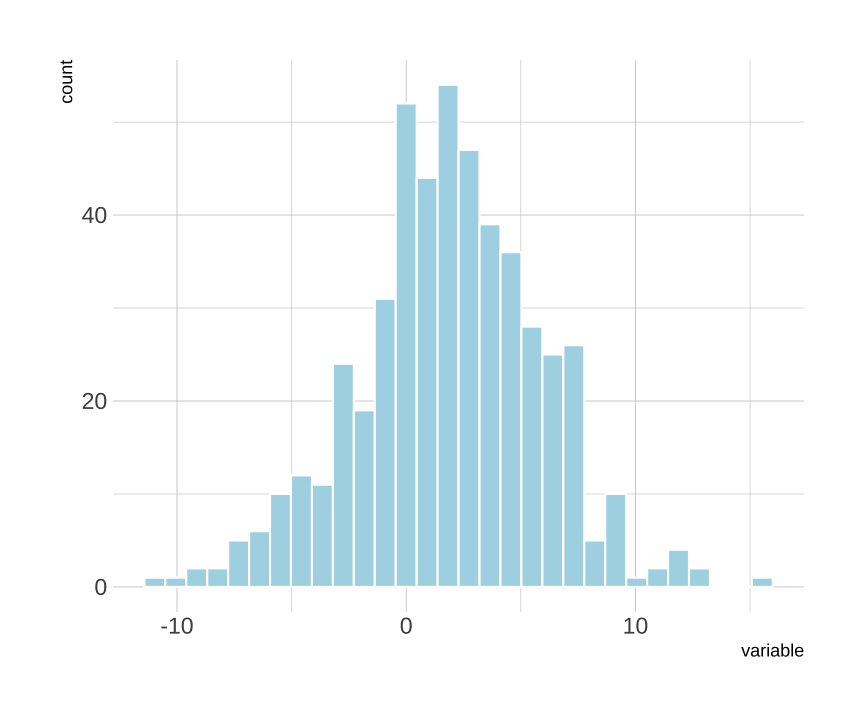
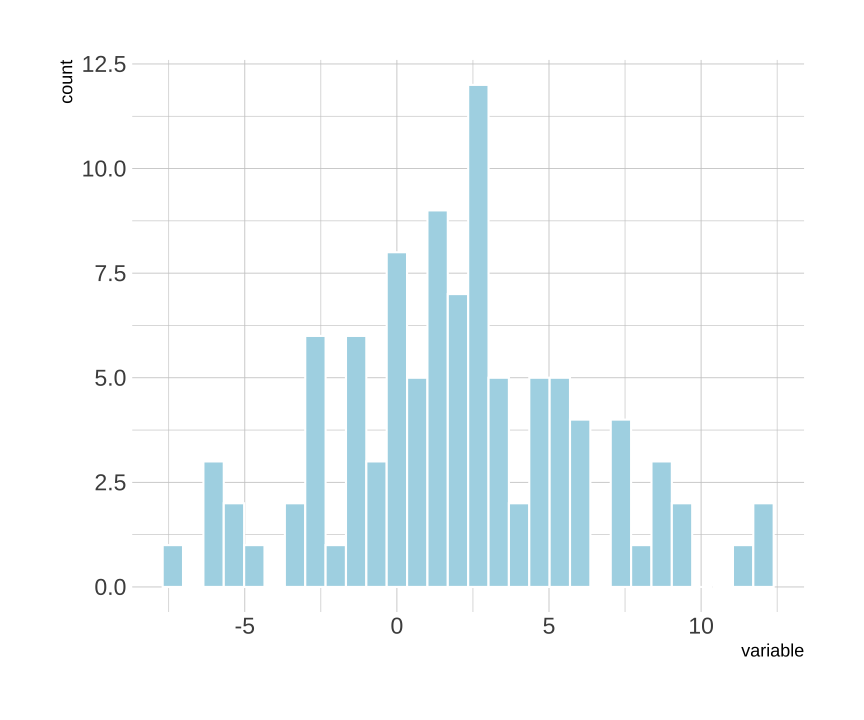
Update slides 1.

diff --git a/slides/01_introduction.html b/slides/01_introduction.html
@@ -31,6 +31,17 @@ class: inverse, center, middle
 
 ---
 
+&lt;style type="text/css"&gt;
+.pull-left2 {
+  float: left;
+  width: 30%;
+}
+.pull-right2 {
+  float: right;
+  width: 60%;
+}
+&lt;/style&gt;
+
 # Harnessing surprising sources of information
 
 .pull-left[
@@ -66,15 +77,15 @@ _Blumenstock, Cadamura, &amp; On, 2015_
 
 # Better prediction
 
-.pull-left[
+.pull-left2[
 ![](https://www.pluggedin.com/wp-content/uploads/2019/12/minority-report-1024x677.jpg)
 ]
 
-.pull-right[
+.pull-right2[
 
-- Already years ago, police departments have started to a system called CRUSH (Criminal Reduction Utilizing Statistical History) 
-- It evaluates patterns of past and present crime incidents and combines it with a range of data including crime reports, offender behavior profiles, weather forecasts...
-- This combination of data is then used to predict potential hot spots and flashpoints and allocate resources to areas where particular crimes are most likely to occur.
+- Already years ago, police departments have started to use a system called CRUSH (Criminal Reduction Utilizing Statistical History) 
+- It evaluates patterns of past crime incidents and combines it with a range of data including crime reports, offender behavior profiles, or weather forecasts
+- This combination of data is then used to predict potential hot spots and allocate resources to areas where particular crimes are most likely to occur.
 
 
 ]
@@ -84,10 +95,15 @@ _Blumenstock, Cadamura, &amp; On, 2015_
 # Why is this important now?
 
 - In the past, collecting data was expensive (surveys, observations...)
+
 - In the digital age, the behaviors of billions of people are recorded, stored, and therefore analyzable
-- For example, every time you click on a website, make a call on your mobile phone, or pay for something with your credit card, a digital record of your behavior is created and stored 
+
+- For example, every time you click on a website, make a call on your mobile phone, or pay for something with your credit card, a digital record of your behavior is created and stored
+
 - Because (meta-)data are a byproduct of people’s everyday actions, they are often called **digital traces**. 
+
 - Governments also have incredibly rich data about both people and businesses
+
 - Large-scale records of persons or business are often called **big data**.
 
 ---
@@ -96,27 +112,27 @@ _Blumenstock, Cadamura, &amp; On, 2015_
 
 
 .pull-left[
-1. Big
+- Big
 
-2. Always-On
+- Always-On
 
-3. Nonreactive
+- Nonreactive
 
-4. Incomplete
+- Incomplete
 
-5. Inaccessible
+- Inaccessible
 ]
 
 .pull-right[
-6. Nonrepresentative
+- Nonrepresentative
 
-7. Drifting
+- Drifting
 
-8. Algorithmically confounded
+- Algorithmically confounded
 
-9. Dirty
+- Dirty
 
-10. Sensitive
+- Sensitive
 ]
 
 &lt;br&gt;
@@ -127,11 +143,13 @@ _Salganik, 2017, chap. 2.3_
 
 # Typical computational research strategies
 
-1. Counting things
+&lt;br&gt;
 
-2. Forecasting and nowcasting
+- Counting things
 
-3. Approximating experiments
+- Forecasting and nowcasting
+
+- Approximating experiments
 
 &lt;br&gt;
 
@@ -143,7 +161,7 @@ class: inverse, center, middle
 
 # Computational Communication Science
 
-A definition.
+Why computational methods are important for future communication research. 
 
 ---
 
@@ -160,7 +178,22 @@ A definition.
 
 ---
 
-# Simulating search queries
+# Promises of computational communication research
+
+The recent acceleration in the promise and use of computational methods for communication
+science is primarily fueled by the confluence of at least three developments:
+
+- vast amounts of digitally available data, ranging from social media messages and other “digital traces” to web archives and newly digitized newspaper and other historical archives
+- improved tools to analyze this data, including **network analysis methods** and **automatic text analysis methods** such as supervised **text classification**, **topic modelling**, **word embeddings**, and **syntactic methods**
+- powerful and cheap processing power, and easy to use computing infrastructure for processing these data, including scientific and commercial cloud computing, sharing platforms such as Github and Dataverse, and crowd coding platforms such as
+Amazon MTurk and Crowdflower
+
+_Van Atteveldt &amp; Peng, 2017_
+
+
+---
+
+# Example: Simulating search queries
 
 - Numbers of drug-overdose deaths have been increasing in the United States.
 - Google spotlights counselling services as helpful resources when users query for suicide-related search terms. 
@@ -185,7 +218,7 @@ A definition.
 
 ---
 
-# Analyzing and aggregating news coverage
+# Example: Analyzing and aggregating news coverage
 
 .pull-left[
 - Jacobi and colleagues analyzed the coverage of nuclear technology from 1945 to the present in the New York Times
@@ -199,7 +232,7 @@ A definition.
 
 ---
 
-# Analyzing gender representation in TV
+# Example: Analyzing gender representation in TV
 
 - Jürgens et al (2021) investigated gender representations in over ten years of daytime TV programming
 - Usually, this would have required hours and hours (!) of manual coding (i.e., watching a hell lot of TV)
@@ -210,23 +243,81 @@ A definition.
 
 # Underrepresentation of women in German TV
 
-.pull-left[
+.pull-left2[
 - Women on average remained underrepresented on TV, with 6.3 million female faces out of 16 million total
 (estimated proportion .39, 95% CI: .37-.42)
 - This strong overall bias was mirrored across specific subsamples (news, sports, advertising...)
 ]
 
-.pull-right[
+.pull-right2[
 ![](img/juergen_face2.png)
 ]
 
+---
+
+# Ethics of 'Big Data' and Computational Research
+
+.pull-left[
+
+&lt;div style = "background: #c3dbe6; padding: 10px"&gt;
+
+700,000 Facebook users were put into an experiment that may have altered their emotions. The participants did not give consent and the study was not subject to third party ethical oversight
+
+_Kramer et al., 2014_
+
+&lt;/div&gt;
+
+]
+
+.pull-left[
+
+&lt;div style = "background: #c3dbe6; padding: 10px"&gt;
+
+Researcher scraped students' data from Facebook, merged it with university records, used these data for research and then shared them with other researchers. 
+
+_Wimmer &amp; Lewis, 2010_
+
+&lt;/div&gt;
+
+]
+
+
+_Salganik, 2018, pp. 284-285_
+
+---
+
+# Ethical problems
+
+- More power over participants than in the past
+
+- Example: Observation of participants without their knowledge or consent
+
+- Guiding principles
+
+    - Respect for persons: Treating people as autonomous and honoring their wishes
+    - Beneficence: Understanding and improving the risk/benefit profile of a study
+    - Justice: Risks and benefits should be evenly distributed
+    - Respect for law and public interest
+
+
+---
+
+# Preliminary summary
+
+- Computational communication research holds manifold promises
+
+- We can harness unusual sources of information and large amounts of data, particularly as people leave digital traces
+
+- New methods allow to structure, aggregate and make sense of these data and extract meaningful information to study communication behavior and phenomena
+
+- However, computational communication research comes with ethical challenges related to consent, privacy, and autonomy of the participants
 
 ---
 class: inverse, center, middle
 
 # The trouble with 'R'
 
-Shit, we have to learn a programming language?
+Sh***, we have to learn a programming language?
 
 ---
 
@@ -243,7 +334,7 @@ Shit, we have to learn a programming language?
 library(ggplot2)
 
 # Create vector
-variable &lt;- rnorm(500, 2, 4)
+variable &lt;- rnorm(100, 2, 4)
 
 # Plot Histogram
 ggplot(NULL, 
@@ -290,17 +381,25 @@ ggplot(NULL,
 
 - There are thousand additional packages for almost any statistical procedure
 - Allows for flexible programming and is adaptive to own needs
-- Encourages replicable analyses
+- Encourages replicible analyses
 
 ---
 
 # Advantages of R
 
+.pull-left2[
 ### Graphic and other output possibilities
 
 - Allows to produce publication-ready figures and visualizations
 - Allows to combine analyses and writing to produces diverse output formats (e.g., these slides)
 
+]
+
+.pull-right2[
+
+&lt;img src="01_introduction_files/figure-html/unnamed-chunk-4-1.png" width="100%" /&gt;
+
+]
 ---
 
 # Conclusion
@@ -342,12 +441,30 @@ How this course is going to work?
 # Teaching assistants &amp; Help desk
 
 
+.pull-left[
+## Teaching assistants
+
+Not everything will work at the first time. Because we work with code, tiny mistakes can produce errors. During the practical sessions, these three assistants are there to help you:
 
 - Meryam Boufouchk
 
 - Daniel Huisman
 
 - Gianni Quaedvlieg
+
+]
+
+.pull-right[
+## R Help Desk
+
+If you have any further problems related to installing software, running packages or code, or simply an error message you do not understand, you can address the R Help Desk:
+
+- Henry Lachman
+- Sarah Sramota
+
+
+
+]
 
 
 ---
@@ -395,6 +512,7 @@ Here, you will find all necessary information, the course overview, and material
 ## Lectures
 
 - Every Monday from 9:00 to 11.15
+- Introduction of research problems and computational solutions
 
 ## Practical sessions
 
@@ -402,8 +520,9 @@ Here, you will find all necessary information, the course overview, and material
 - Practical sessions take place twice a week
 - Every Tuesday (either 9:00 to 10:30 or 11:00 to 12:30)
 - Every Thursday (with 13.30 to 15:00 or 15:30 to 17:00)
+- Here, you will learn to run code in RStudio!
 
-*Note:* All lectures and practical sessions are taught on campus!
+*Note:* All lectures and practical sessions are taught **on campus**!
 
 ---
 
@@ -482,7 +601,13 @@ class: inverse, center, middle
 
 - Jürgens, P., Meltzer, C., &amp; Scharkow, M. (2021, in press). Age and Gender Representation on German TV: A Longitudinal Computational Analysis. Computational Communication Research. 
 
+- Kramer, A. D. I., Guillory, J. E, &amp; Hancock, J. (2014). Experimental Evidence of Massive-Scale Emotional Contagion Through Social Networks. Proceedings of the National Academy of Sciences, 111(24), 8788-8790.
+
+- Salganik, M. J. (2018). Bit by Bit: Social Research in the Digital Age. Princeton University Press. 
+
 - Van Atteveldt, W., &amp; Peng, T.-Q. (2018). When communication meets computation: Opportunities, challenges, and pitfalls in computational communication science. Communication Methods and Measures, 12(2-3), 81–92. https://doi.org/10.1080/19312458.2018.1458084
+
+- Wimmer, A. &amp; Lewis, K., (2010). Beyond and Below Racial Homophily: ERG Models of a Friendship Network Documented on Facebook. American Journal of Sociology, 116(2), 583-642. 
     </textarea>
 <style data-target="print-only">@media screen {.remark-slide-container{display:block;}.remark-slide-scaler{box-shadow:none;}}</style>
 <script src="https://remarkjs.com/downloads/remark-latest.min.js"></script>
